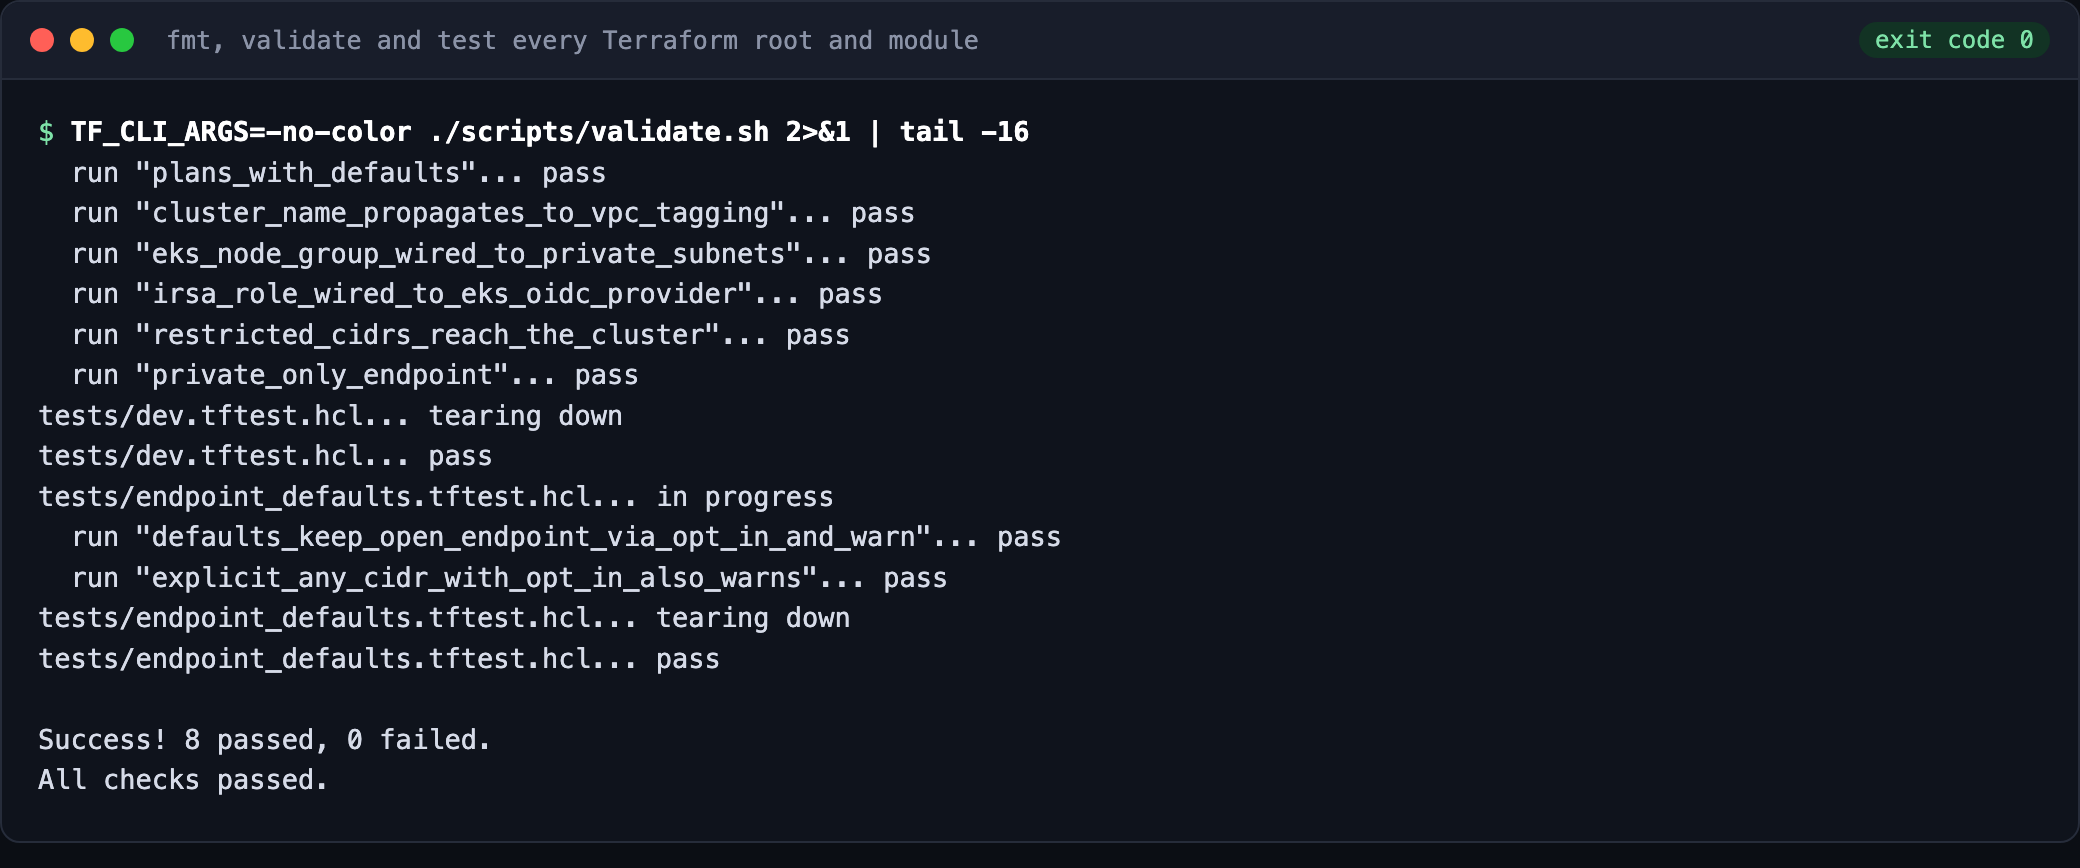
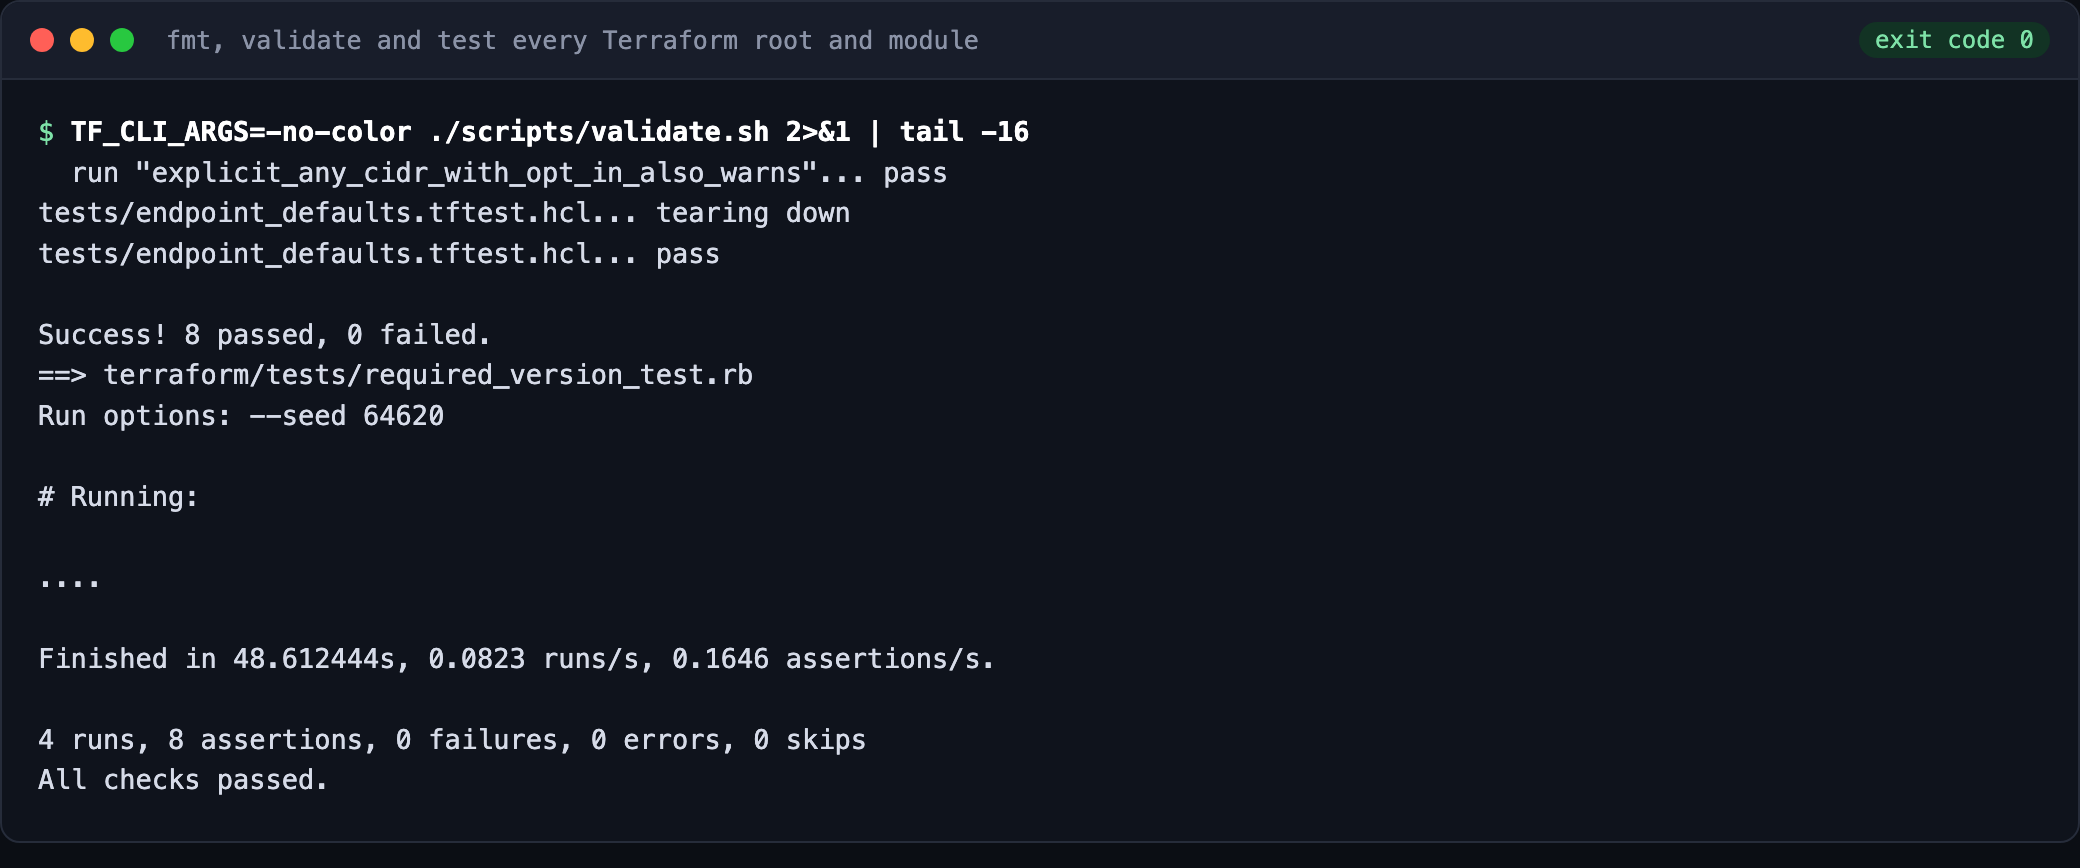
Fix #15: Regression test for issue #12's required_version bug never runs in CI or validate.sh (#17)
* test: regression test for issue #15 (required_version_test.rb never runs)

Adds scripts/tests/validate_wiring_test.rb, which drives the real `make
validate-all` entrypoint with no-op stubs for ruby/terraform/helm and
asserts that one of the recorded `ruby` invocations targets
terraform/tests/required_version_test.rb. It fails on current code because
that regression test (added for issue #12) is never referenced by
validate.sh, validate-gitops.sh, the Makefile, or the validate.yml
workflow, and passes once the file is wired into the validation chain.

* Fix #15: wire required_version_test.rb into validate.sh

scripts/validate.sh now runs terraform/tests/required_version_test.rb
after the fmt/validate/test loop, so make validate-all and CI exercise
the issue #12 regression test instead of it only running when someone
invokes the file by hand. Updates README/DAILY_REPORT and regenerates
the affected docs/screenshots accordingly.

diff --git a/scripts/tests/validate_wiring_test.rb b/scripts/tests/validate_wiring_test.rb
@@ -1,0 +1,63 @@
+#!/usr/bin/env ruby
+# Regression test for issue #15: the regression test added for issue #12
+# (terraform/tests/required_version_test.rb) must actually run as part of
+# `make validate-all` (and therefore CI), not just exist as a file someone
+# has to remember to run by hand.
+#
+# This stubs out `ruby`, `terraform`, and `helm` with no-op binaries (so the
+# run is fast and needs no network / real Terraform binaries) and drives the
+# *real* `make validate-all` entrypoint, recording every `ruby <args>`
+# invocation made along the way. It then asserts that one of those
+# invocations targeted terraform/tests/required_version_test.rb -- i.e. the
+# documented validation flow actually exercises that file, regardless of
+# which script/Makefile target is the one that ends up invoking it.
+require 'minitest/autorun'
+require 'open3'
+require 'tmpdir'
+require 'fileutils'
+
+REPO_ROOT = File.expand_path('../..', __dir__)
+
+class ValidateWiringTest < Minitest::Test
+  def test_make_validate_all_exercises_the_required_version_regression_test
+    Dir.mktmpdir('eks-gitops-platform-validate-wiring-') do |scratch|
+      stub_bin = File.join(scratch, 'bin')
+      FileUtils.mkdir_p(stub_bin)
+      ruby_log = File.join(scratch, 'ruby-invocations.log')
+      FileUtils.touch(ruby_log)
+
+      write_noop_stub(File.join(stub_bin, 'terraform'))
+      write_noop_stub(File.join(stub_bin, 'helm'))
+      write_logging_ruby_stub(File.join(stub_bin, 'ruby'), ruby_log)
+
+      env = { 'PATH' => "#{stub_bin}:#{ENV.fetch('PATH')}" }
+      out, status = Open3.capture2e(env, 'make', 'validate-all', chdir: REPO_ROOT)
+
+      assert status.success?, "stubbed `make validate-all` was expected to succeed, but failed:\n#{out}"
+
+      invocations = File.read(ruby_log)
+      assert_match(
+        %r{terraform/tests/required_version_test\.rb},
+        invocations,
+        "`make validate-all` never invoked `ruby .../terraform/tests/required_version_test.rb`.\n" \
+        "ruby invocations actually made:\n#{invocations.empty? ? '(none)' : invocations}"
+      )
+    end
+  end
+
+  private
+
+  def write_noop_stub(path)
+    File.write(path, "#!/bin/sh\nexit 0\n")
+    FileUtils.chmod(0o755, path)
+  end
+
+  def write_logging_ruby_stub(path, log_path)
+    File.write(path, <<~SH)
+      #!/bin/sh
+      echo "$@" >> #{log_path}
+      exit 0
+    SH
+    FileUtils.chmod(0o755, path)
+  end
+end

diff --git a/README.md b/README.md
@@ -77,7 +77,12 @@ make validate-all              # both
 `validate.sh` runs `terraform fmt -check`, `terraform validate`, and
 `terraform test` for every Terraform module and the dev environment, against
 **mocked** `aws`/`tls` providers. `terraform init` still downloads the real
-providers from registry.terraform.io, so this needs network access.
+providers from registry.terraform.io, so this needs network access. It then
+runs `terraform/tests/required_version_test.rb`, which downloads a real
+Terraform binary pinned to each module's declared `required_version` minimum
+and runs `init`+`validate` against it (from releases.hashicorp.com, cached
+under the OS temp dir after the first run), so a lower bound that doesn't
+match reality fails the script instead of only surfacing on someone's laptop.
 
 `validate-gitops.sh` runs the Ruby unit tests in `scripts/tests/`, then
 checks YAML syntax and required fields on everything under `gitops/` and

diff --git a/DAILY_REPORT.md b/DAILY_REPORT.md
@@ -36,7 +36,10 @@ plus a manual `kubectl` fallback.
 
 - `./scripts/validate.sh` — Terraform `fmt -check`, `validate`, and `test`
   for every module and the `dev` environment, against mocked `aws`/`tls`
-  providers: **43 test runs, all passing**.
+  providers: **43 test runs, all passing**. It then runs
+  `terraform/tests/required_version_test.rb`, which validates each module's
+  declared `required_version` minimum against a real pinned Terraform
+  binary: **4 test runs, all passing**.
 - `./scripts/validate-gitops.sh` — Ruby unit tests plus YAML/structural
   checks plus a `helm template` render: **26 unit tests across three test
   files** (`check_manifest_test.rb`, `helm_repo_setup_test.rb`,
